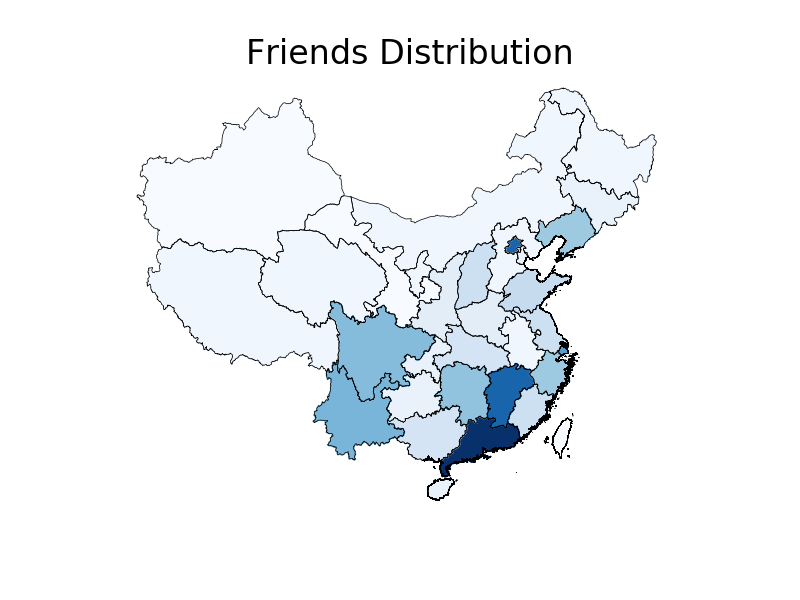
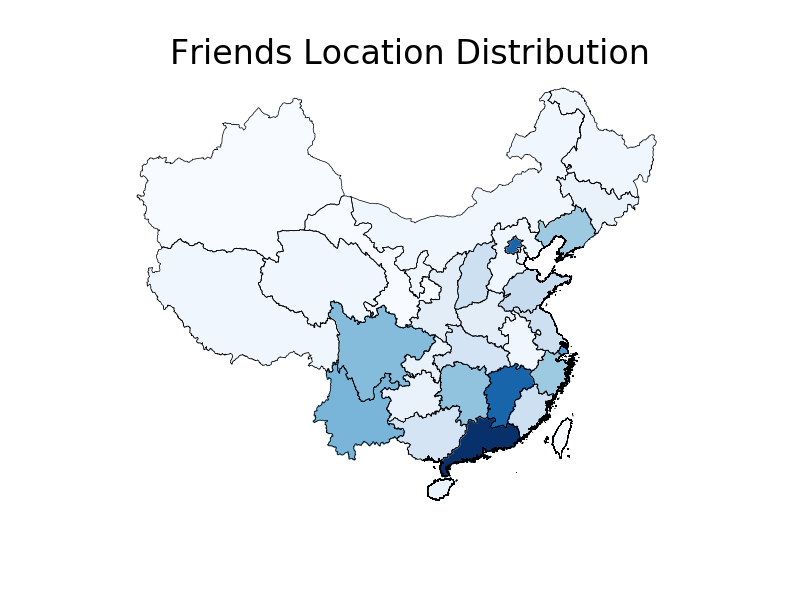
uplaod on 2018-08-13_10:20

Changed region(s): [[0.2188, 0.06, 0.8125, 0.12]]

diff --git a/friends_distribution.py b/friends_distribution.py
@@ -3,13 +3,23 @@ import argparse
 import generate_map
 import generate_fig
 
+def str2bool(v):
+    if v.lower() in ('yes', 'true', 't', 'y', '1'):
+        return True
+    elif v.lower() in ('no', 'false', 'f', 'n', '0'):
+        return False
+    else:
+        raise argparse.ArgumentTypeError('Boolean value expected.')
 
 parser = argparse.ArgumentParser()
-parser.add_argument('-map',type=bool,default=True,help='show friends loaction distribution map')
-parser.add_argument('-fig',type=bool,default=True,help='show friends gender distribution fig')
-args = parser.parse_args()
+parser.add_argument("-map", type=str2bool, nargs='?',const=True, default=True,help='show friends loaction distribution map')
+parser.add_argument("-fig", type=str2bool, nargs='?',const=True, default=True,help='show friends gender distribution fig')
 
-print('Please scan this QR code')
+args = parser.parse_args()
+print(args.map,args.fig)
+
+
+# print('Please scan this QR code')
 bot = Bot()
 
 # 机器人账号自身
@@ -109,17 +119,3 @@ if args.fig:
 
 
 bot.logout()
-
-
-
-# print(provinces)
-# print(out_of_china)
-# print(total)
-# print(male)
-# print(female)
-
-# # 进入 Python 命令行、让程序保持运行
-# embed()
-
-# 或者仅仅堵塞线程
-# bot.join()

diff --git a/generate_map.py b/generate_map.py
@@ -10,12 +10,10 @@ def tanh(x):
 
 
 def generate_map(data,show=False):
-	# mpl.rcParams['font.sans-serif']=['SimHei'] #指定默认字体 SimHei为黑体
-	# mpl.rcParams['axes.unicode_minus']=False #用来正常显示负号
-	# myfont = mpl.font_manager.FontProperties(fname="SimHei.ttc")
 
-	# add HK G,OMA to GuangDong
+	# add HKG,OMA to GuangDong
 	data['广东'] += (data['香港']+data['澳门'])
+	
 	# get color cmp
 	color_cmp = plt.get_cmap('Blues') 
 
@@ -50,8 +48,7 @@ def generate_map(data,show=False):
 	    ax.add_patch(Polygon(shapedict, color=data['台湾'][1]))
 
 	plt.axis("off")  #关闭坐标轴
-	# plt.title('好友分布图',fontproperties=myfont)
-	plt.title('Friends Distribution',fontsize = 24)
+	plt.title('Friends Location Distribution',fontsize = 24)
 	plt.savefig("map.png")
 	if show:
 		plt.show()
